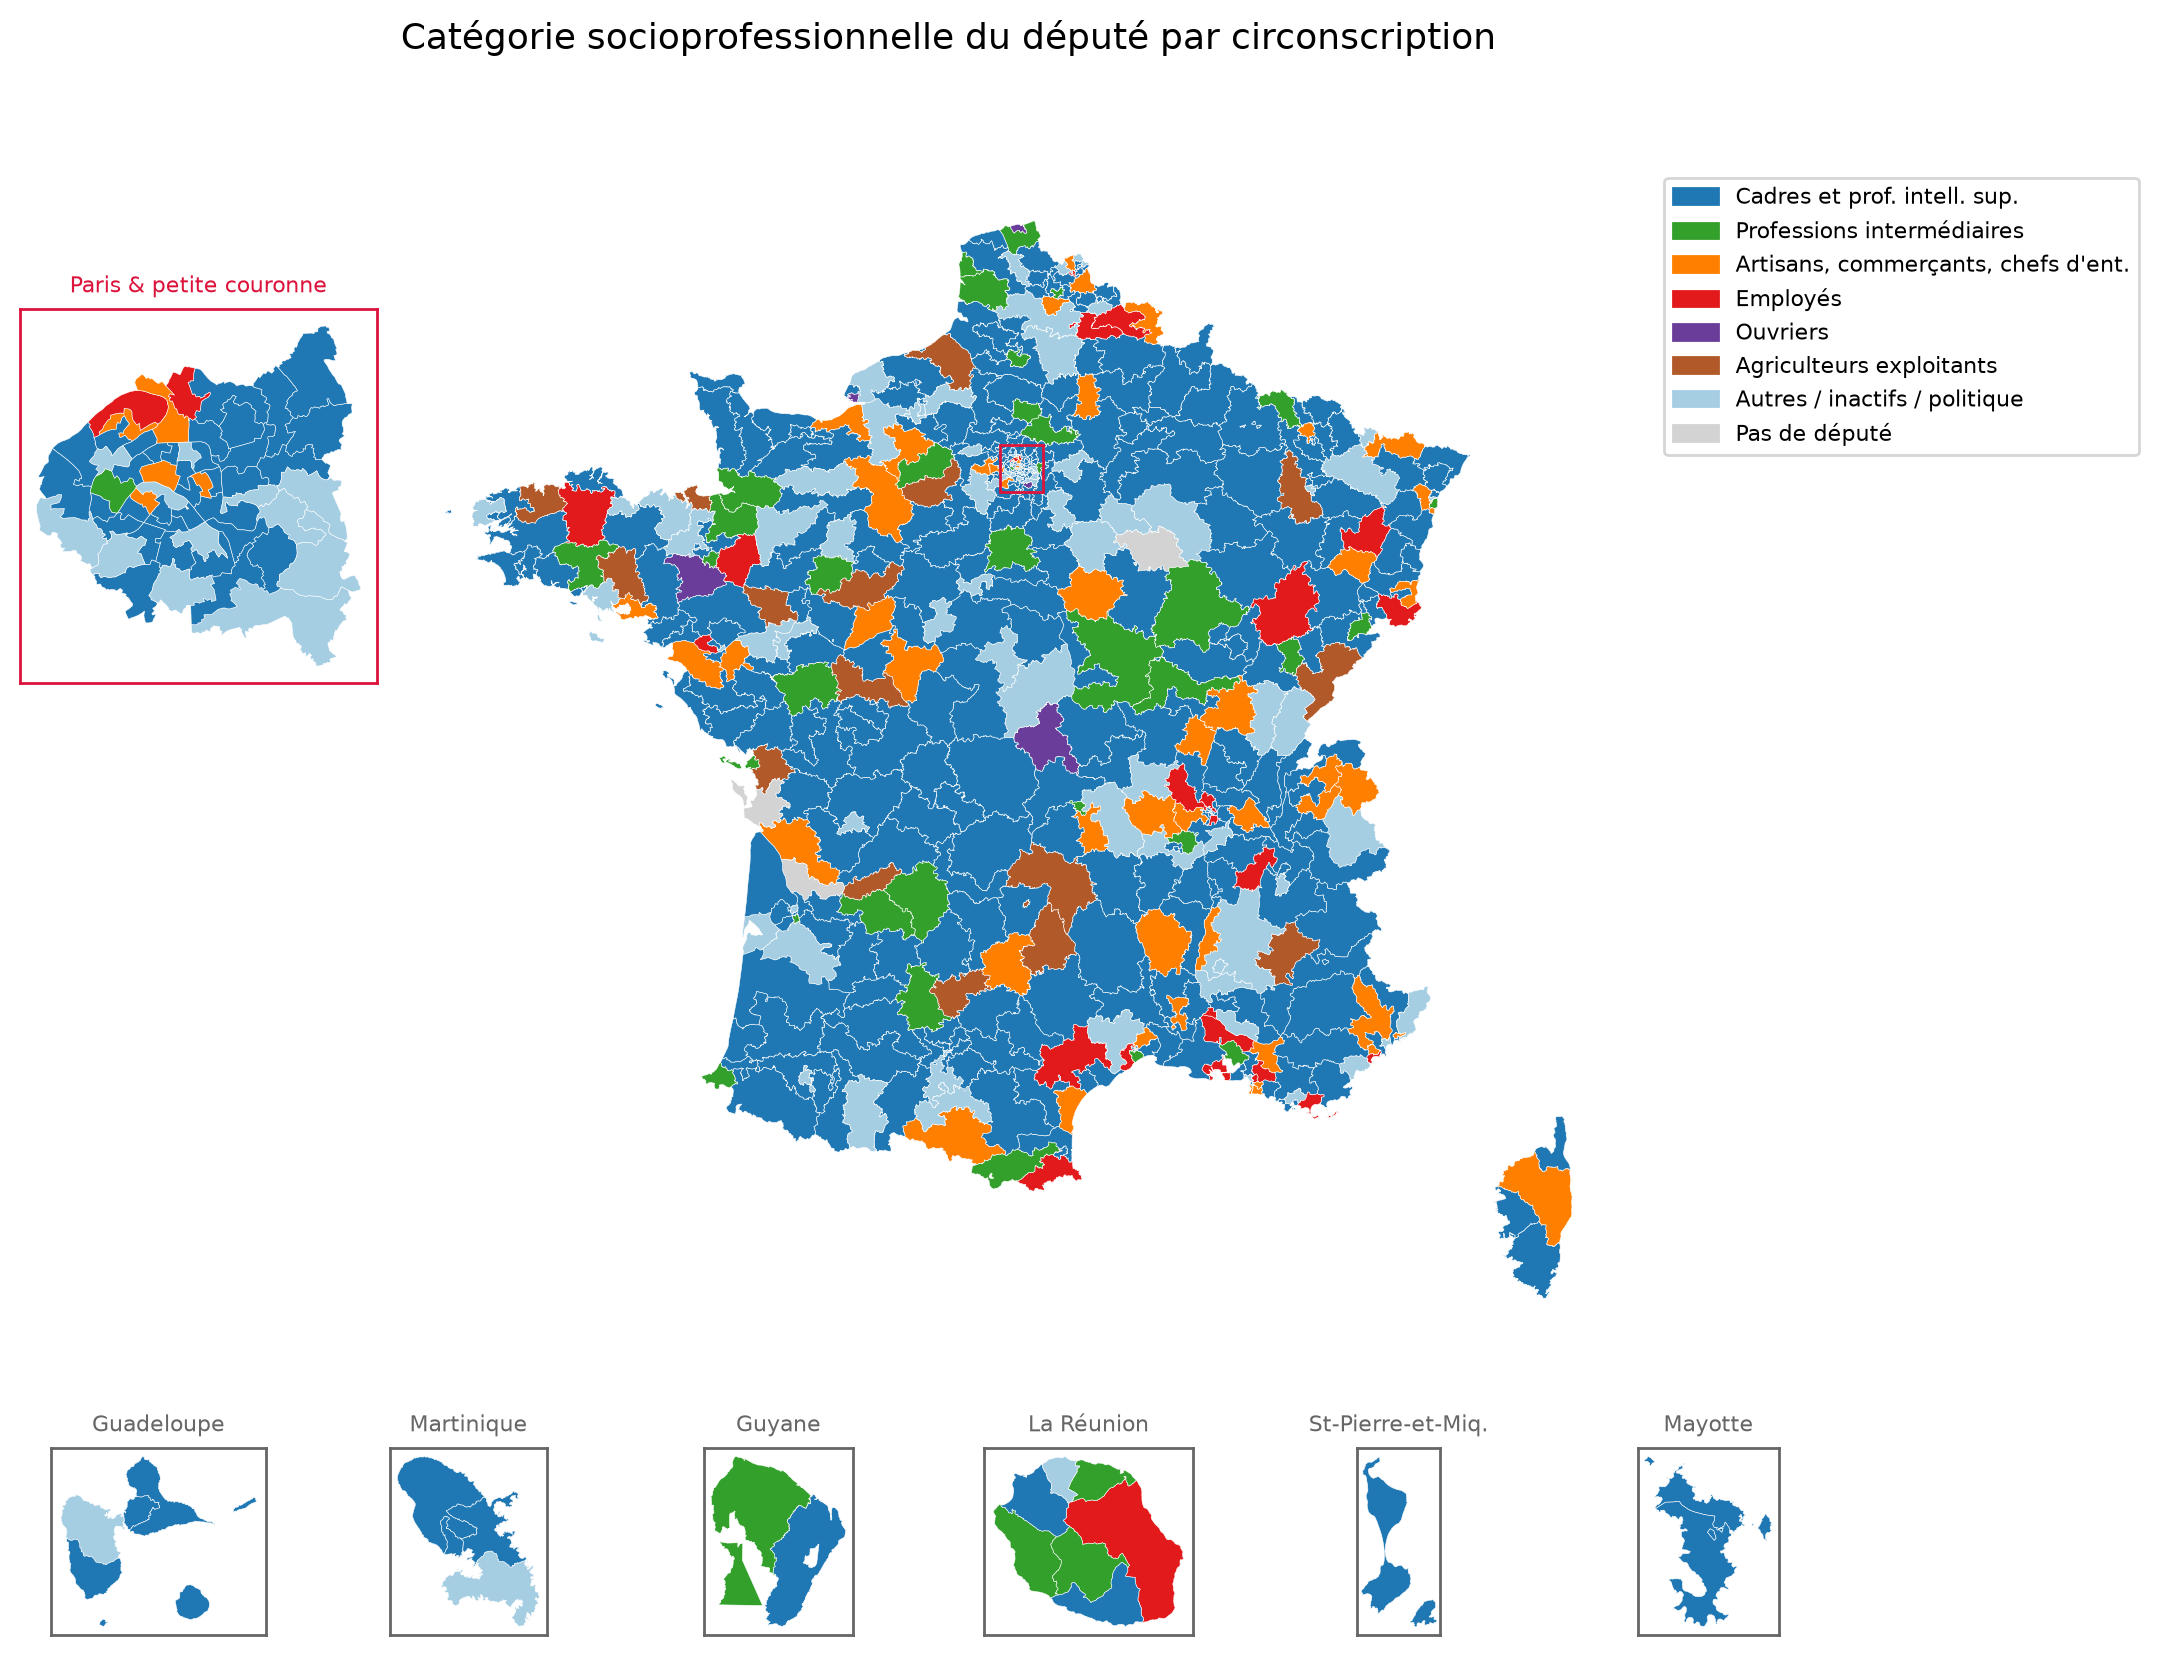
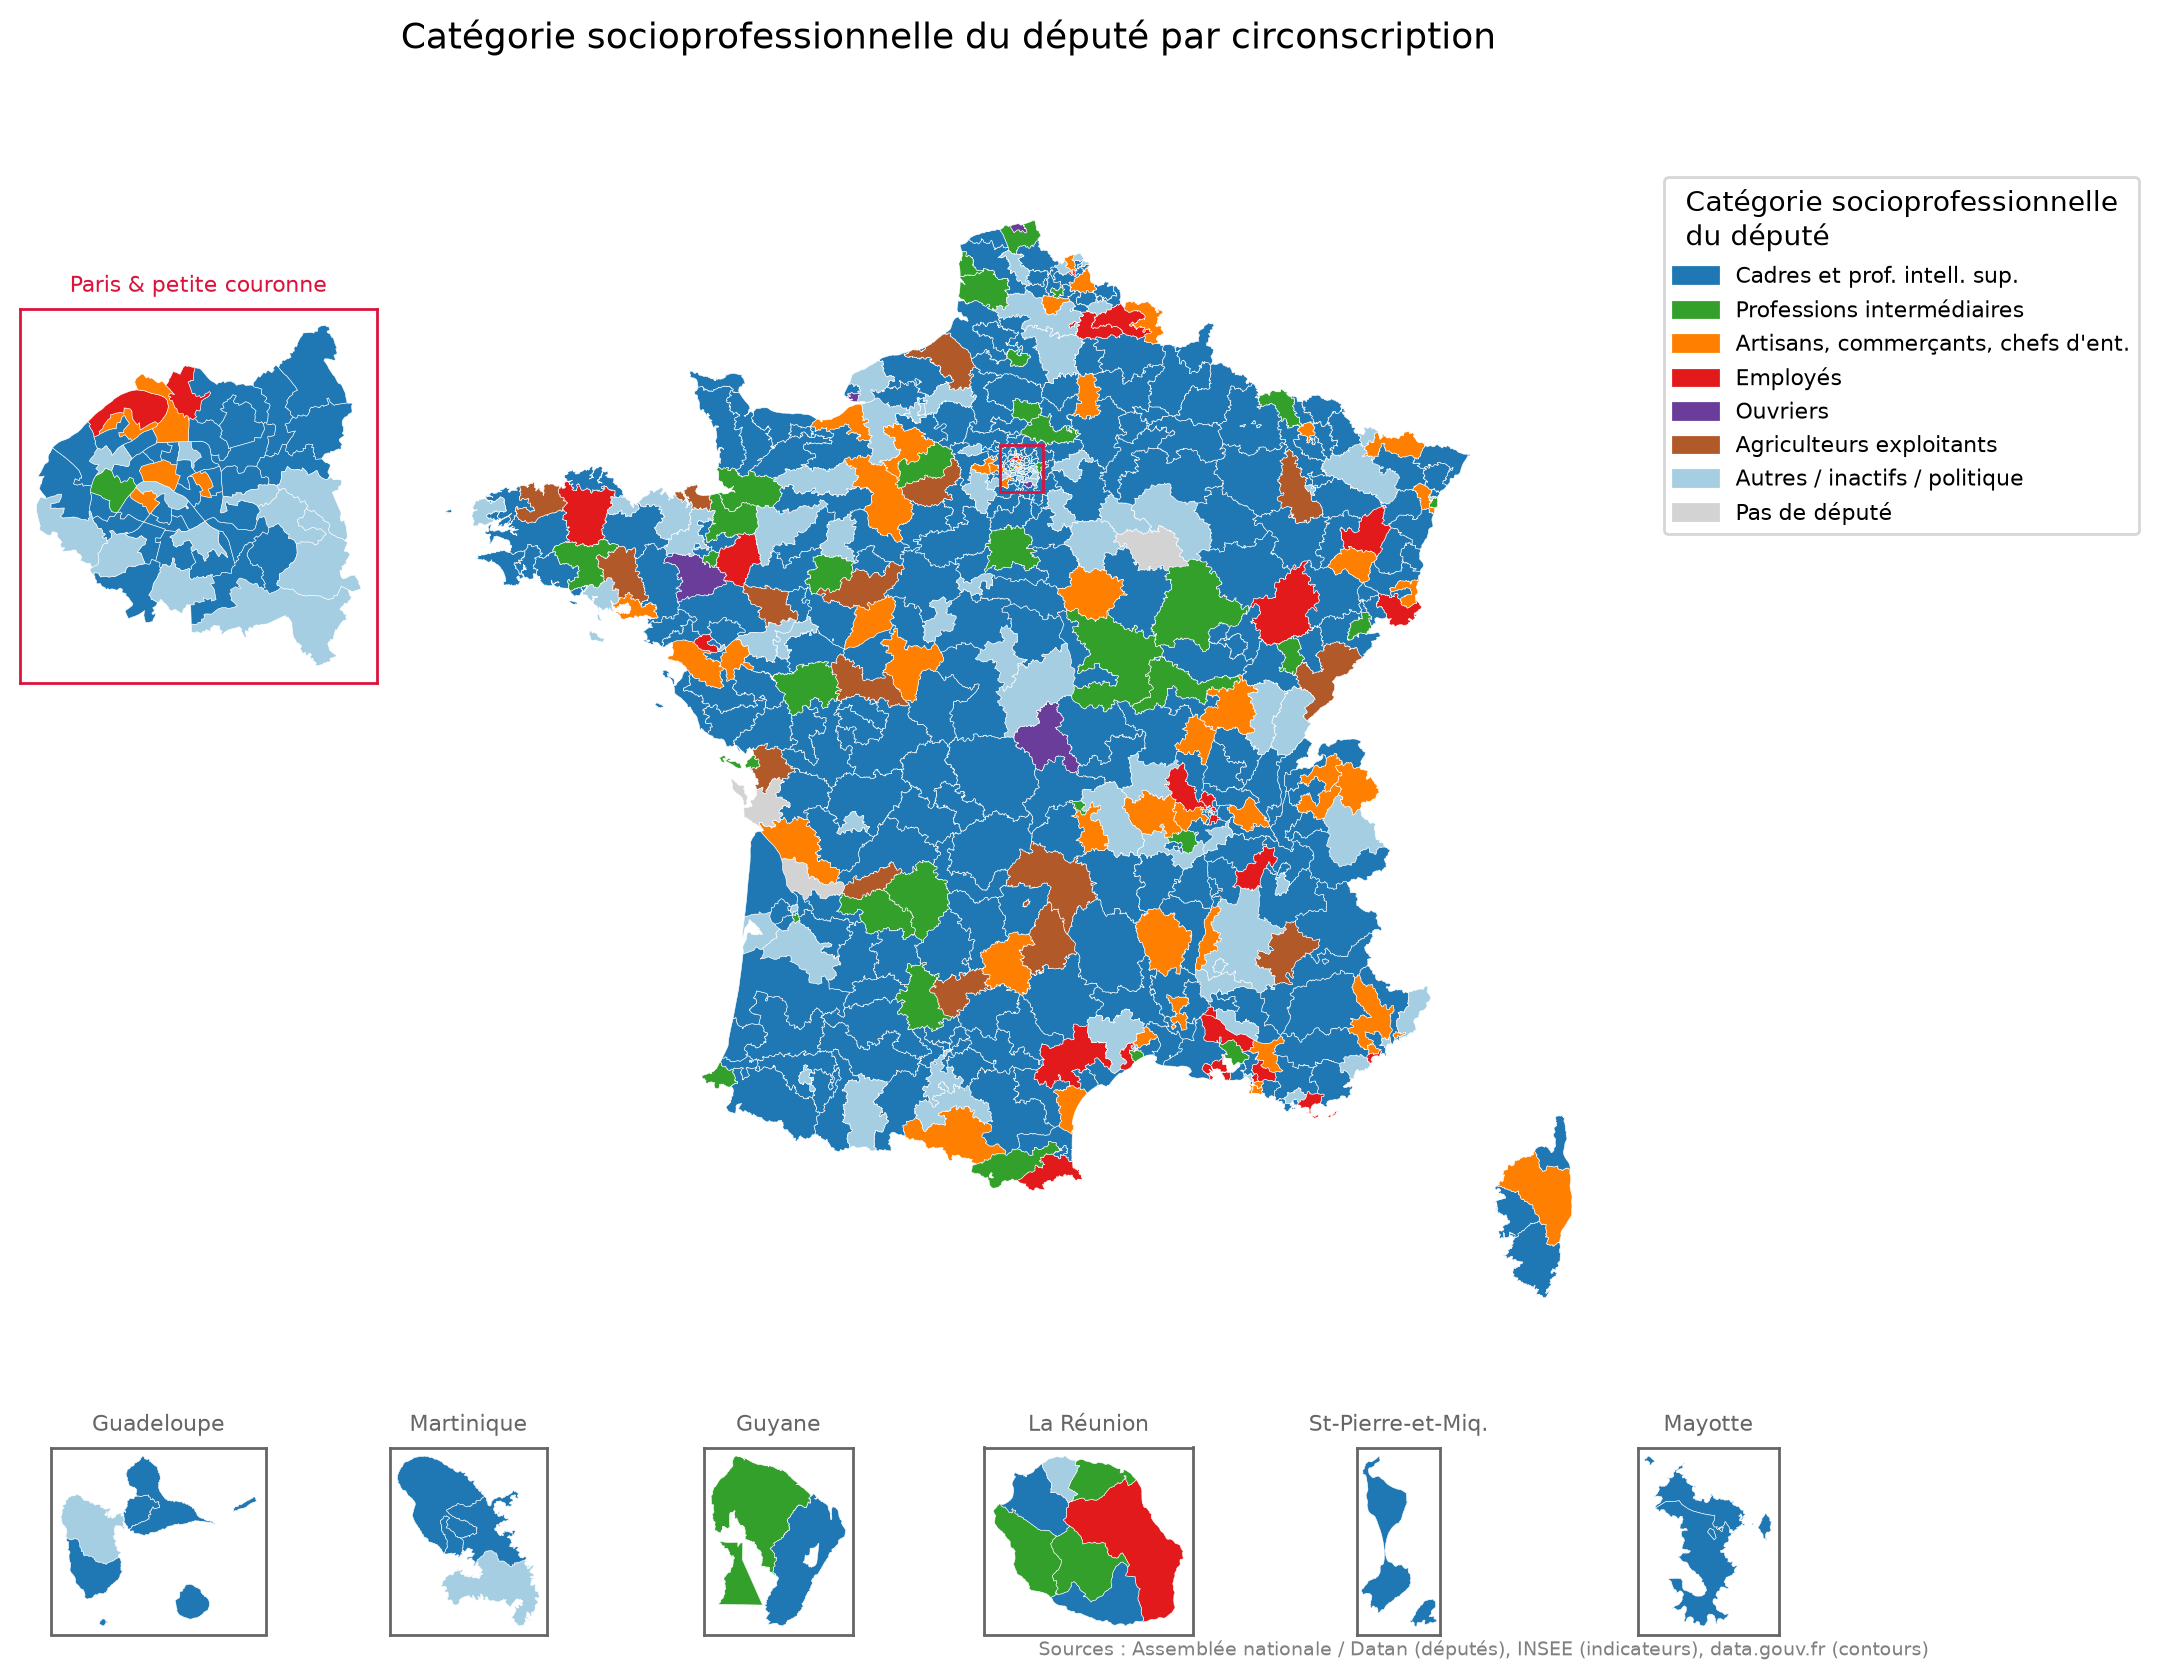
ajout des sources aux cartes

diff --git a/cartes.py b/cartes.py
@@ -53,6 +53,18 @@ CSP_DEPUTES = {
     "autres": ("Autres / inactifs / politique", "#a6cee3"),
 }
 
+SOURCE_CARTES = (
+    "Sources : Assemblée nationale / Datan (députés), INSEE (indicateurs), "
+    "data.gouv.fr (contours)"
+)
+
+
+def ajouter_source(fig):
+    """Ajoute la mention des sources en bas à droite de la figure."""
+    fig.text(0.99, 0.005, SOURCE_CARTES, ha="right", va="bottom",
+             fontsize=7, color="gray")
+
+
 def ajouter_code_circo(contours):
     """
     Construit 'code_circo' au format INSEE à partir des contours :
@@ -138,7 +150,7 @@ def carte_indicateur(carte, colonne, titre, cmap="viridis", vmax=None, unite="%"
     metro.plot(
         column=colonne, cmap=cmap, legend=True, edgecolor="white",
         linewidth=0.2, ax=ax, vmin=vmin, vmax=vmax_eff,
-        legend_kwds={"label": unite} if unite else {},
+        legend_kwds={"label": titre} if titre else {},
         missing_kwds={"color": "lightgrey", "label": "Pas de données"},
     )
     fig.suptitle(titre, fontsize=13, y=0.97)
@@ -152,6 +164,7 @@ def carte_indicateur(carte, colonne, titre, cmap="viridis", vmax=None, unite="%"
         edgecolor="white", linewidth=0.2, ax=a,
         missing_kwds={"color": "lightgrey"},
     ))
+    ajouter_source(fig)
     return fig
 
 
@@ -161,6 +174,7 @@ def carte_genre(carte):
     fig, ax = plt.subplots(figsize=(10, 8.5))
     metro.plot(
         column="genre", categorical=True, legend=True, edgecolor="white",
+        legend_kwds={"title": "Genre du député", "loc": "lower right"},
         linewidth=0.2, ax=ax, cmap="Set2",
         missing_kwds={"color": "lightgrey", "label": "Pas de député"},
     )
@@ -172,6 +186,7 @@ def carte_genre(carte):
         edgecolor="white", linewidth=0.2, ax=a,
         missing_kwds={"color": "lightgrey"},
     ))
+    ajouter_source(fig)
     return fig
 
 def carte_csp(carte):
@@ -191,13 +206,15 @@ def carte_csp(carte):
 
     legende = [Patch(color=c, label=lbl) for lbl, c in CSP_DEPUTES.values()]
     legende.append(Patch(color="lightgrey", label="Pas de député"))
-    ax.legend(handles=legende, bbox_to_anchor=(1.02, 1), loc="upper left", fontsize=8)
+    ax.legend(handles=legende, bbox_to_anchor=(1.02, 1), loc="upper left",
+    fontsize=8, title="Catégorie socioprofessionnelle\ndu député")
     fig.suptitle("Catégorie socioprofessionnelle du député par circonscription", fontsize=13, y=0.97)
     ax.set_axis_off()
 
     ajouter_encarts(fig, ax, carte, lambda df, a: df.plot(
         color=df["couleur"], edgecolor="white", linewidth=0.2, ax=a
     ))
+    ajouter_source(fig)
     return fig
 
 
@@ -216,13 +233,15 @@ def carte_groupes(carte):
 
     legende = [Patch(color=c, label=g) for g, c in COULEURS_GROUPES.items()]
     legende.append(Patch(color="lightgrey", label="Pas de député"))
-    ax.legend(handles=legende, bbox_to_anchor=(1.02, 1), loc="upper left", fontsize=8)
+    ax.legend(handles=legende, bbox_to_anchor=(1.02, 1), loc="upper left",
+    fontsize=8, title="Groupe politique")
     fig.suptitle("Groupe politique du député par circonscription", fontsize=13, y=0.97)
     ax.set_axis_off()
 
     ajouter_encarts(fig, ax, carte, lambda df, a: df.plot(
         color=df["couleur"], edgecolor="white", linewidth=0.2, ax=a
     ))
+    ajouter_source(fig)
     return fig
 
 if __name__ == "__main__":
